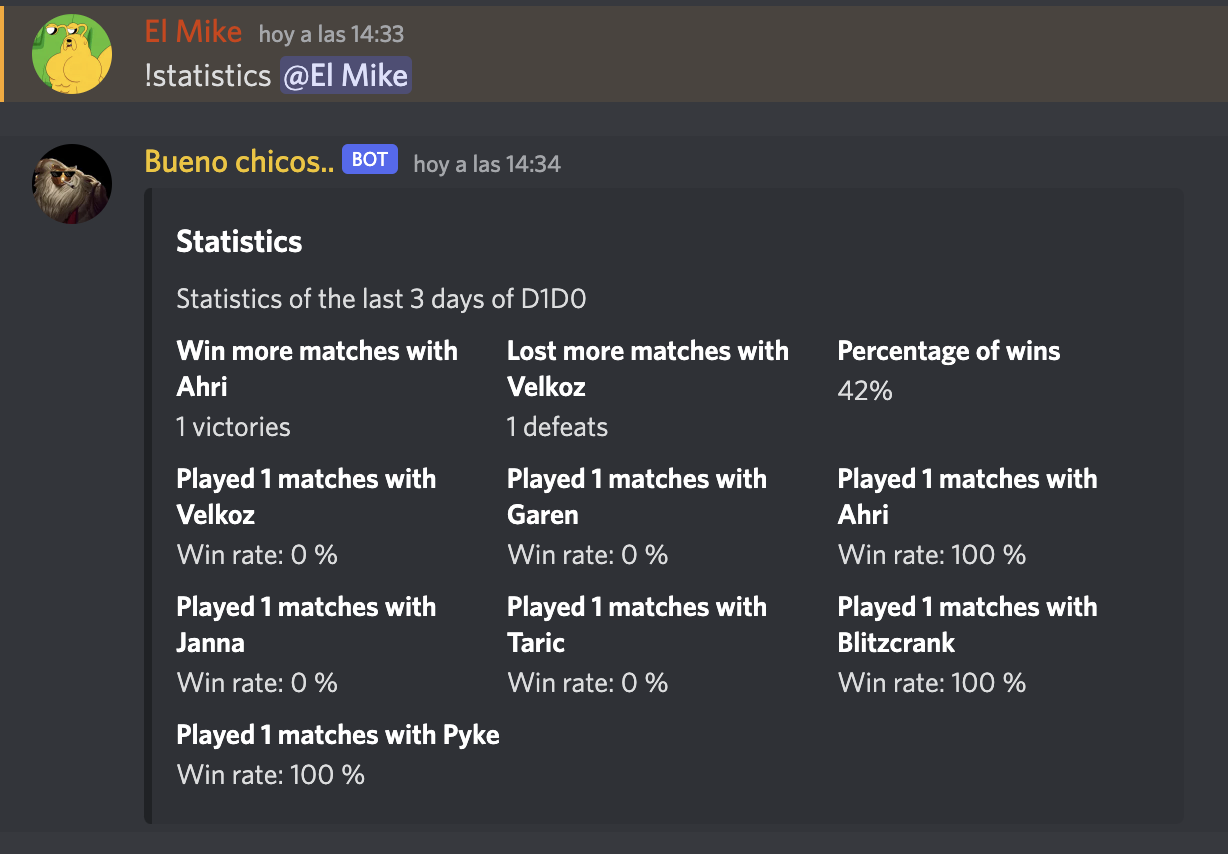
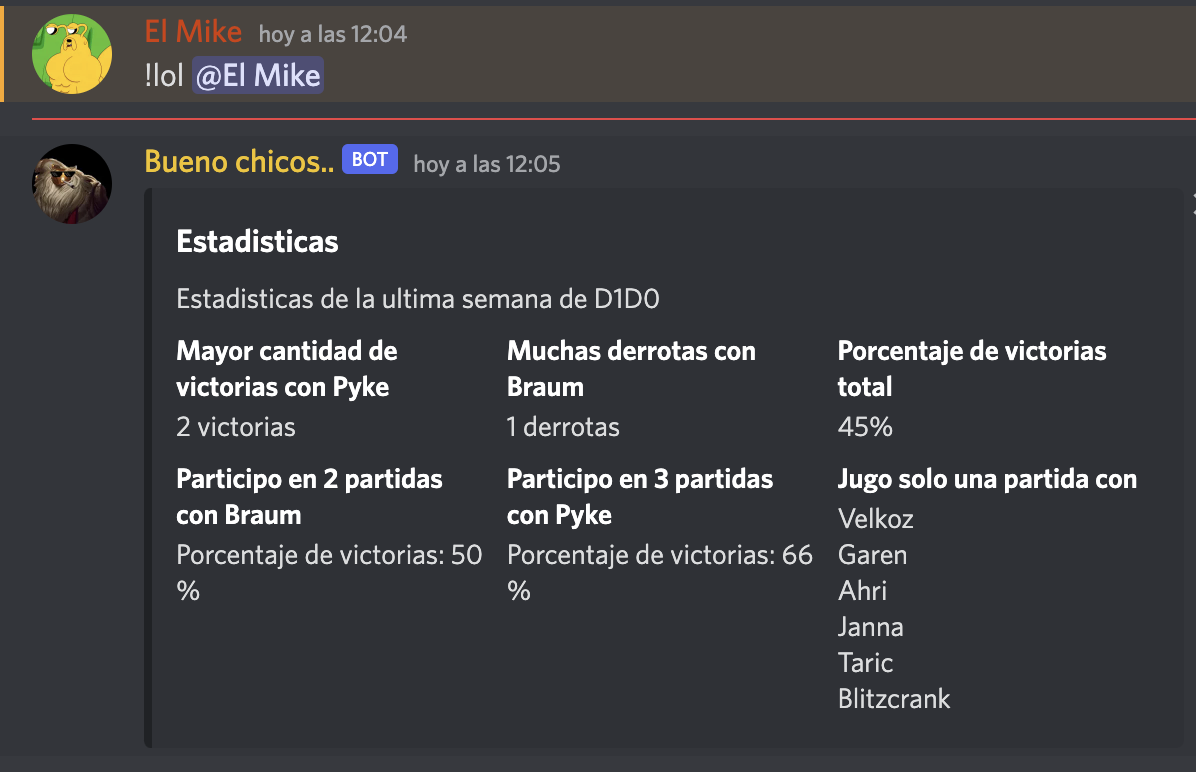
change embed message

Changed region(s): [[0.0, 0.1554, 0.959, 0.9326], [0.0309, 0.0, 0.3403, 0.1244], [0.1237, 0.8394, 0.4022, 0.9326]]

diff --git a/src/utils/embed/games/league_of_legends/embed_lol_statistics_builder.py b/src/utils/embed/games/league_of_legends/embed_lol_statistics_builder.py
@@ -41,7 +41,7 @@ class EmbedLolStatisticsBuilder(EmbedBuilder):
         if len(wins) > 0:
             most_wins = max(wins.items(), key=itemgetter(1))[0]  # Retorna con que campeon gano mas
             self.with_field(
-                name=f"Mayor porcentaje de victorias con {most_wins}",
+                name=f"Mayor cantidad de victorias con {most_wins}",
                 value=f" {wins[most_wins]} victorias",
             )
 
@@ -61,12 +61,24 @@ class EmbedLolStatisticsBuilder(EmbedBuilder):
     def __set_matches_played(self):
         matches: dict = self.__lol_statistics.played
         wins: dict = self.__lol_statistics.wins
+        one_match: list[str] = []
         for c, p in matches.items():
-            try:
-                win_rate = int((wins[c] / p) * 100)
-            except KeyError:
-                win_rate = 0
+            if p == 1:
+                one_match.append(c)
+            else:
+                try:
+                    win_rate = int((wins[c] / p) * 100)
+                except KeyError:
+                    win_rate = 0
 
-            self.with_field(
-                name=f"Participo en {p} partidas con {c}", value=f" Porcentaje de victorias: {win_rate} %"
-            )
+                self.with_field(
+                    name=f"Participo en {p} partidas con {c}", value=f" Porcentaje de victorias: {win_rate} %"
+                )
+
+        champs: str = " "
+        for c in one_match:
+            champs = champs + c + "\n"
+
+        self.with_field(
+            name=f"Jugo solo una partida con", value=champs
+        )

diff --git a/src/services/riot/league_of_legends/riot_lol_service.py b/src/services/riot/league_of_legends/riot_lol_service.py
@@ -39,7 +39,7 @@ class RiotLolService(RiotInterface):
         try:
             logging.info(f"Getting {summoner.summoner_name} matches")
             url: str = self.__API_MATCHES_URL.replace(self._PUU_ID_PARAM, puu_id) \
-                .replace(self._TIME_PARAM, str(self._THREE_DAYS_AGO))
+                .replace(self._TIME_PARAM, str(self._SEVEN_DAYS_AGO))
             response: Response = requests.get(url, self._URL_PARAMS)
             if response.status_code == 200:
                 matches = response.json()

diff --git a/src/services/embed/embed_service.py b/src/services/embed/embed_service.py
@@ -24,8 +24,8 @@ class EmbedService:
         """
         self.__embed_builder = EmbedLolStatisticsBuilder()
 
-        title: str = "Statistics"
-        description: str = f"Statistics of the last 3 days of " \
+        title: str = "Estadisticas"
+        description: str = f"Estadisticas de la ultima semana de " \
                            f"{summoner.summoner_name}"
 
         await self.__embed_builder.create_embed(title, description).with_statistics(summoner.lol_statistics) \
